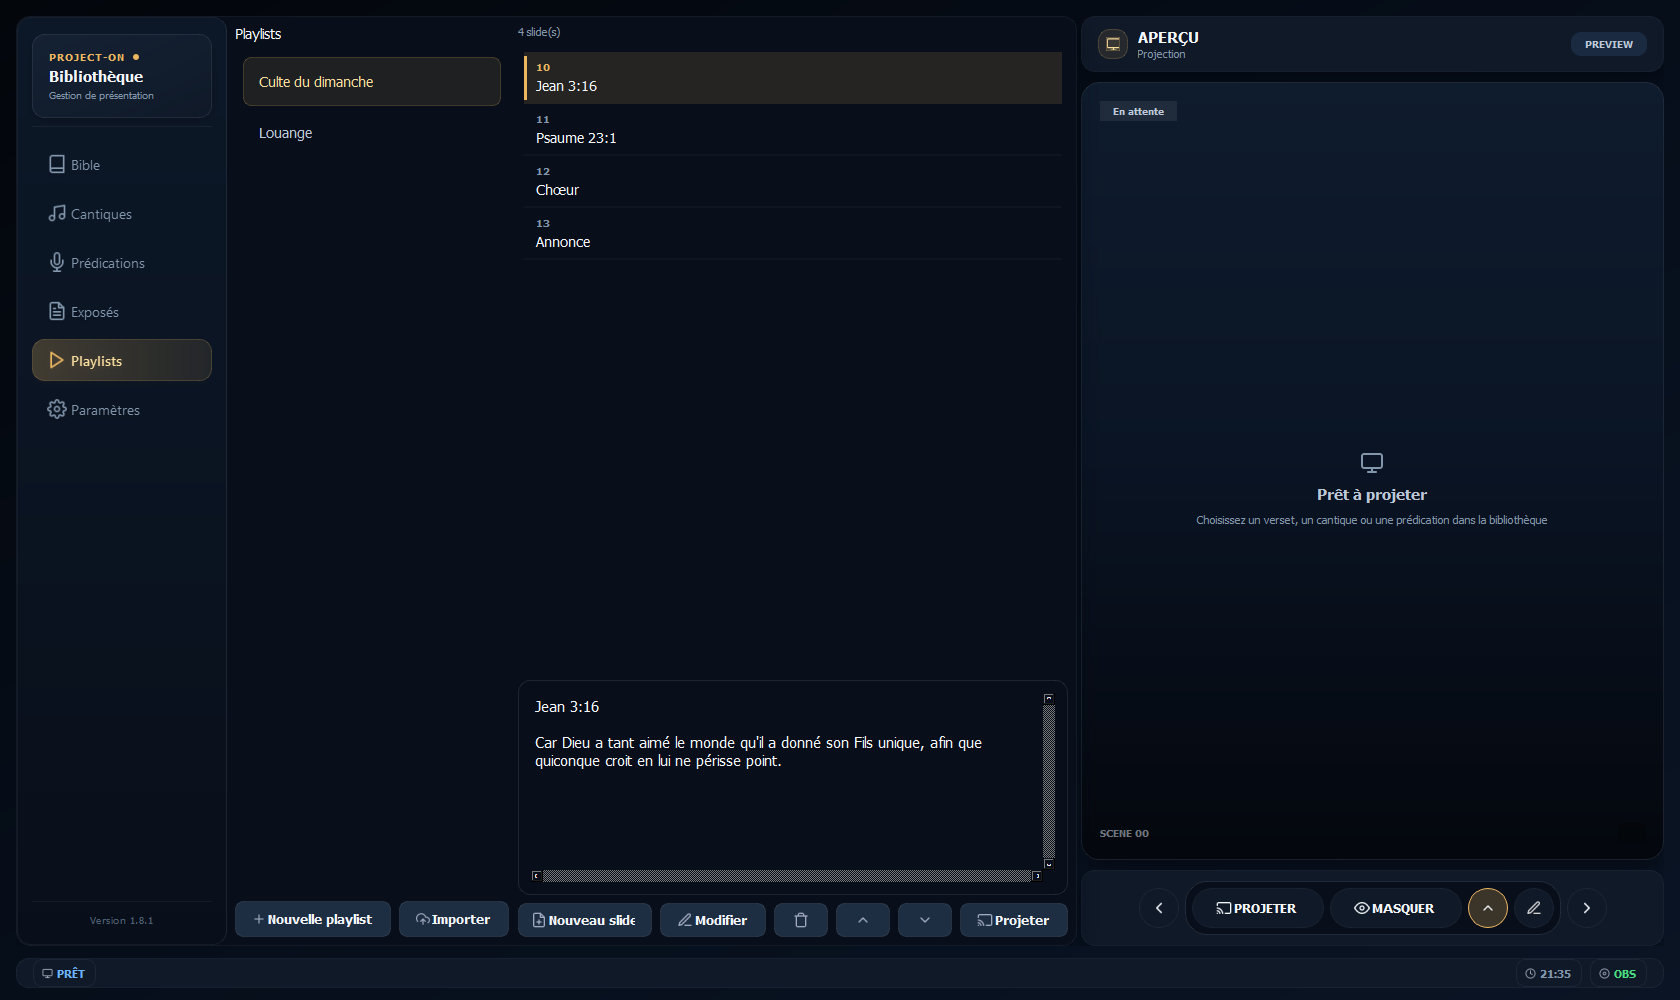
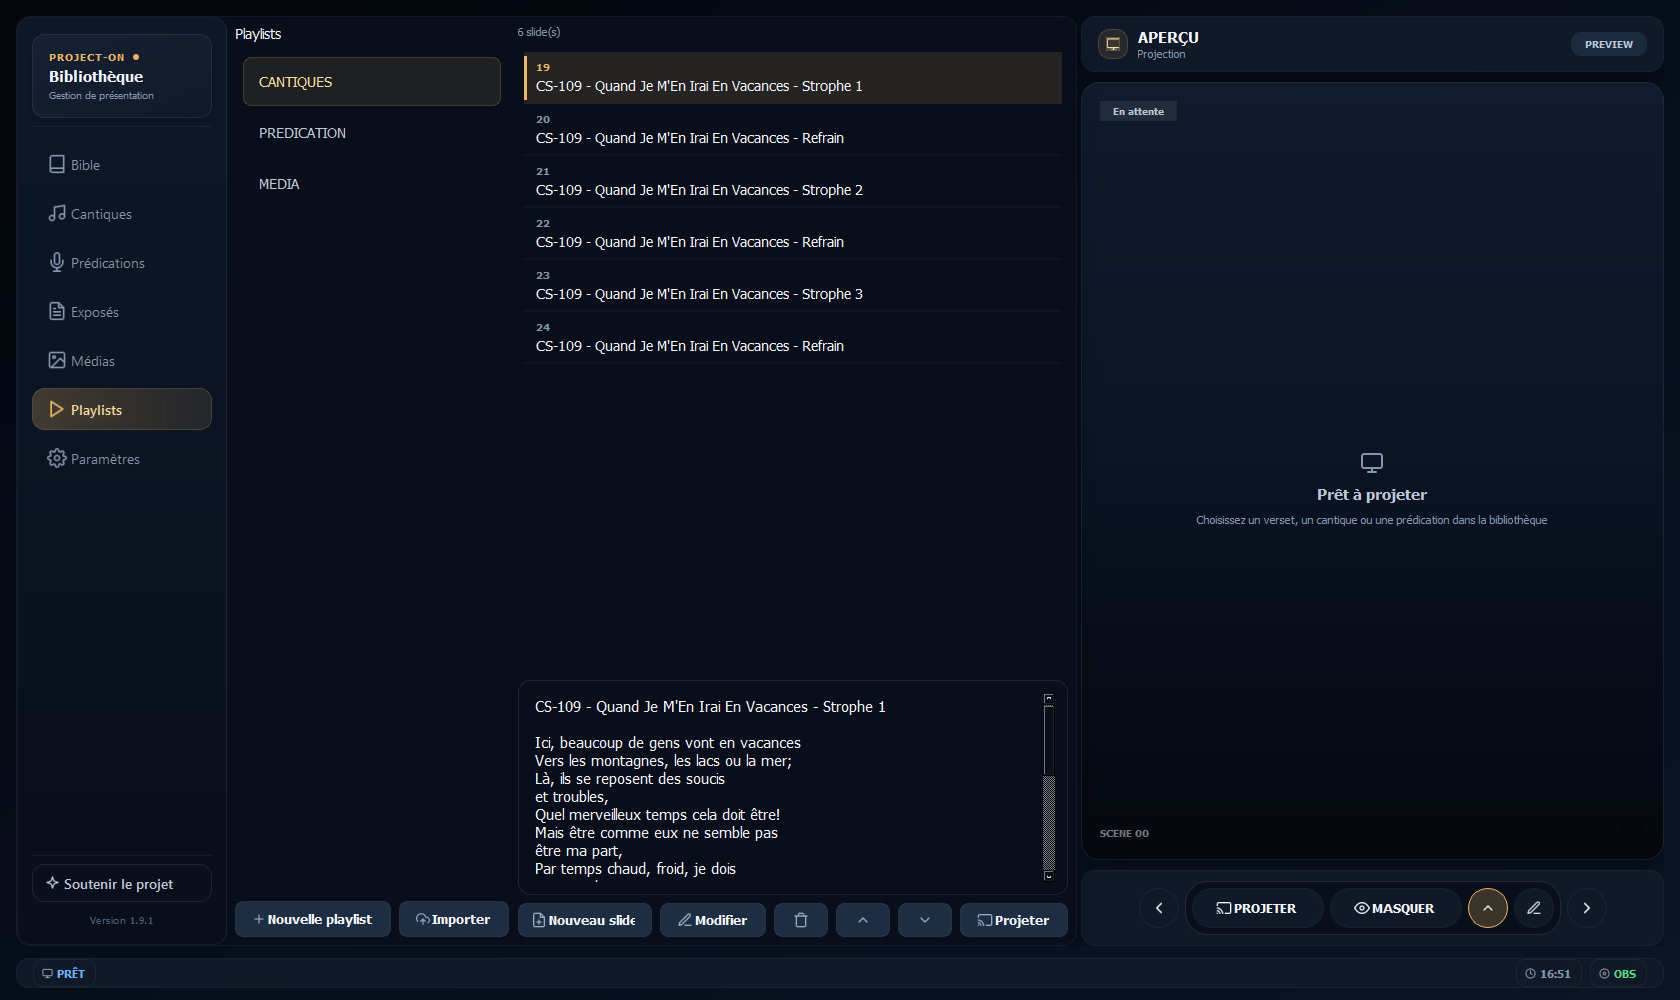
docs: captures du site régénérées (7 onglets, 1.9.1) + carte Médias

diff --git a/docs/index.html b/docs/index.html
@@ -370,6 +370,20 @@
 
           <figure class="capture-card">
             <img
+              src="screenshots/10-app-media.png"
+              alt="Onglet Médias : galerie d'images et de vidéos projetables."
+              width="1680"
+              height="1000"
+              loading="lazy"
+            />
+            <figcaption>
+              <strong>Médias</strong>
+              <span>Images et vidéos en galerie, projetées plein écran en un double-clic.</span>
+            </figcaption>
+          </figure>
+
+          <figure class="capture-card">
+            <img
               src="screenshots/09-app-playlists.png"
               alt="Onglet Playlists : préparation d'un culte avec slides ordonnés."
               width="1680"

diff --git a/tools/capture_site.py b/tools/capture_site.py
@@ -24,6 +24,7 @@ sys.path.insert(0, str(ROOT))
 
 LIGHT = "--light" in sys.argv
 
+from PyQt6.QtGui import QPixmap  # noqa: E402
 from PyQt6.QtWidgets import QApplication  # noqa: E402
 
 from app.database.connection import Database  # noqa: E402
@@ -78,7 +79,8 @@ def main() -> None:
             (1, "06-app-hymns.png"),         # Cantiques
             (2, "07-app-sermons.png"),       # Prédications
             (3, "08-app-expose.png"),        # Exposés
-            (4, "09-app-playlists.png"),     # Playlists
+            (4, "10-app-media.png"),         # Médias
+            (5, "09-app-playlists.png"),     # Playlists
         ]
         if LIGHT:
             # Passe claire : une seule capture (sans écraser le thème sombre).
@@ -134,17 +136,56 @@ def main() -> None:
                 )
                 demo_ids = [f1, f2]
 
+            # Médias de démonstration (images générées, retirées après).
+            from app.database.dao_media import MediaDao
+            from app.utils.app_paths import media_dir
+
+            media_dao = MediaDao(win._project_controller.db)
+            demo_media_files: list[Path] = []
+            demo_media_ids: list[int] = []
+            if not media_dao.list_media():
+                from PyQt6.QtGui import QColor, QFont, QPainter
+
+                demo_specs = [
+                    ("Annonce repas", "#1d4ed8", "#93c5fd"),
+                    ("Crèche — scène", "#7c2d12", "#fdba74"),
+                ]
+                for name, c1, c2 in demo_specs:
+                    pm = QPixmap(480, 270)
+                    pm.fill(QColor(c1))
+                    painter = QPainter(pm)
+                    painter.setPen(QColor(c2))
+                    painter.setFont(QFont("Segoe UI", 22, QFont.Weight.Bold))
+                    painter.drawText(pm.rect(), 0x0084, name)
+                    painter.end()
+                    fpath = media_dir() / f"demo-{name.lower().replace(' ', '-')}.png"
+                    pm.save(str(fpath), "PNG")
+                    demo_media_files.append(fpath)
+                    demo_media_ids.append(
+                        media_dao.add_media(name, str(fpath), "image")
+                    )
+
             for index, name in tabs:
                 win.library_panel.sidebar.setCurrentIndex(index)
-                drain(2.2 if index in (1, 2, 3) else 1.2)
-                if index == 4 and demo_ids:
+                drain(2.2 if index in (1, 2, 3, 4) else 1.2)
+                if index == 4 and demo_media_ids:
+                    win._library_controller.refresh_media()
+                    drain(1.5)
+                if index == 5 and demo_ids:
                     win._library_controller.refresh_playlists()
                     drain(1.5)
                 grab(win, name)
 
-            # Retrait des playlists de démonstration.
+            # Retrait des données de démonstration.
             for fid in demo_ids:
                 dao.delete_folder(fid)
+            for mid in demo_media_ids:
+                media_dao.delete_media(mid)
+            for fpath in demo_media_files:
+                try:
+                    fpath.unlink()
+                except OSError:
+                    pass
 
         if LIGHT:
             win.close()
@@ -177,22 +218,18 @@ def main() -> None:
         cfg = win._settings.projection.to_presentation_config()
 
         writer = SlideWriter(presentation_dir=presentation_dir)
+        from app.utils.models import Slide
+
         writer.write(
-            type(
-                "S",
-                (),
-                {
-                    "source": "bible",
-                    "reference": "Jean 3:16",
-                    "text": (
-                        "Car Dieu a tant aimé le monde qu'il a donné son Fils "
-                        "unique, afin que quiconque croit en lui ne périsse "
-                        "point, mais qu'il ait la vie éternelle."
-                    ),
-                    "background": "",
-                    "image_path": "",
-                },
-            )()
+            Slide(
+                source="bible",
+                reference="Jean 3:16",
+                text=(
+                    "Car Dieu a tant aimé le monde qu'il a donné son Fils "
+                    "unique, afin que quiconque croit en lui ne périsse "
+                    "point, mais qu'il ait la vie éternelle."
+                ),
+            )
         )
 
         proj = ProjectionWindow(presentation_dir)
